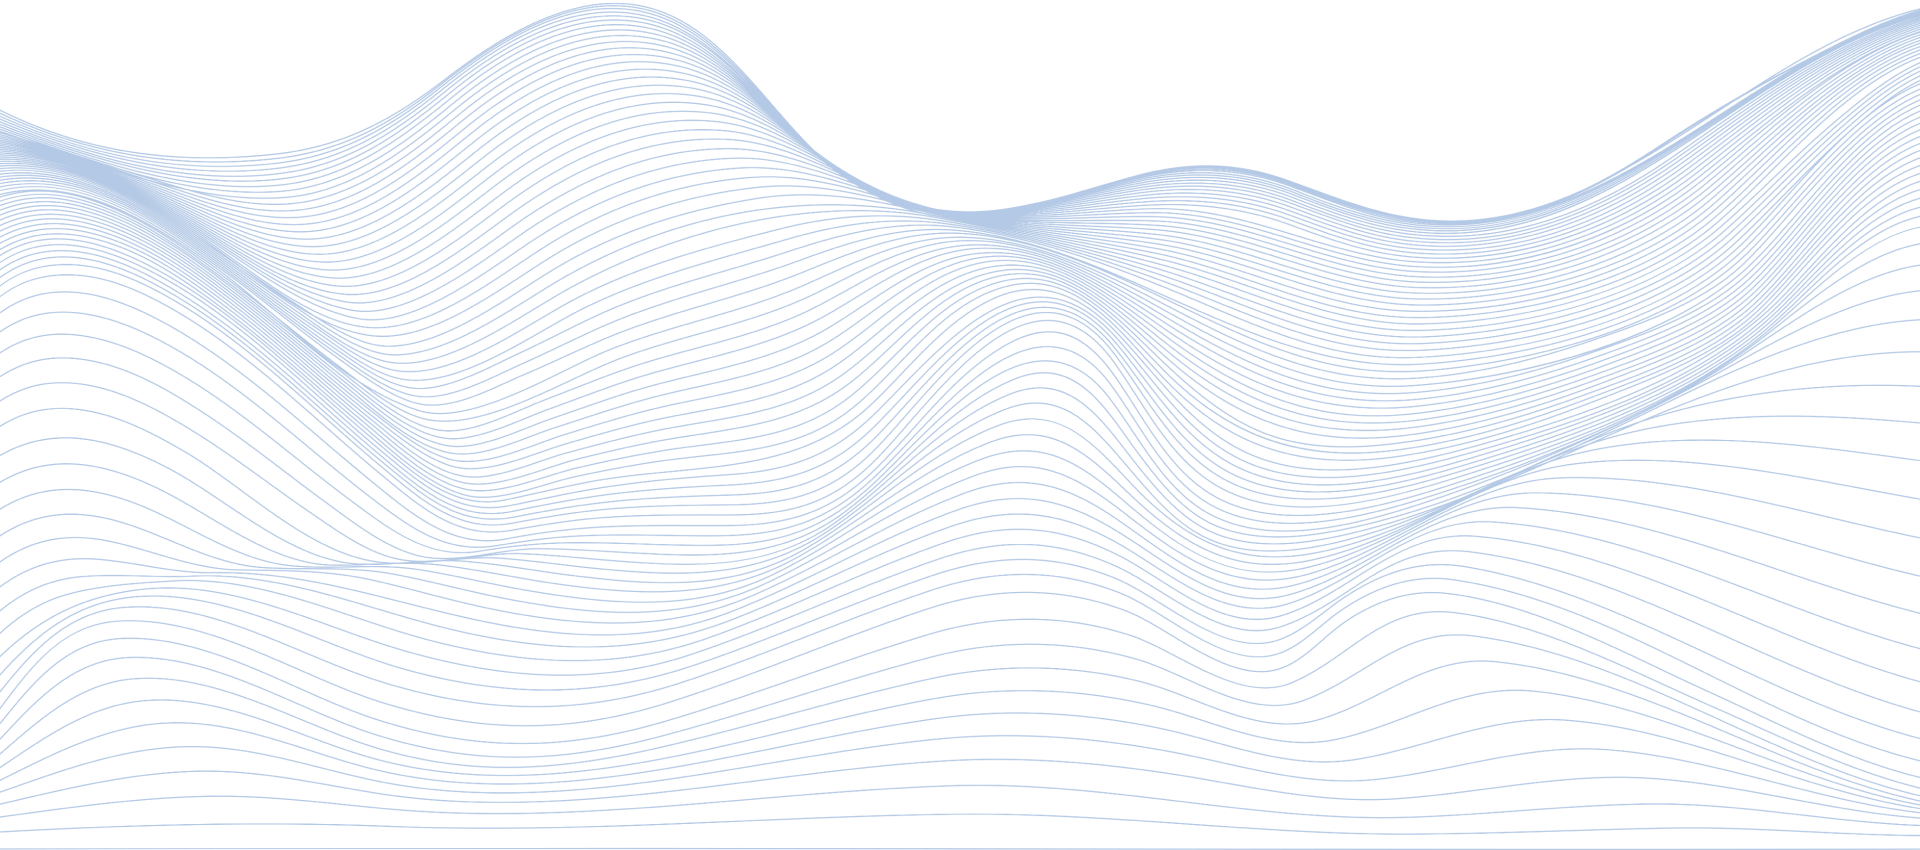
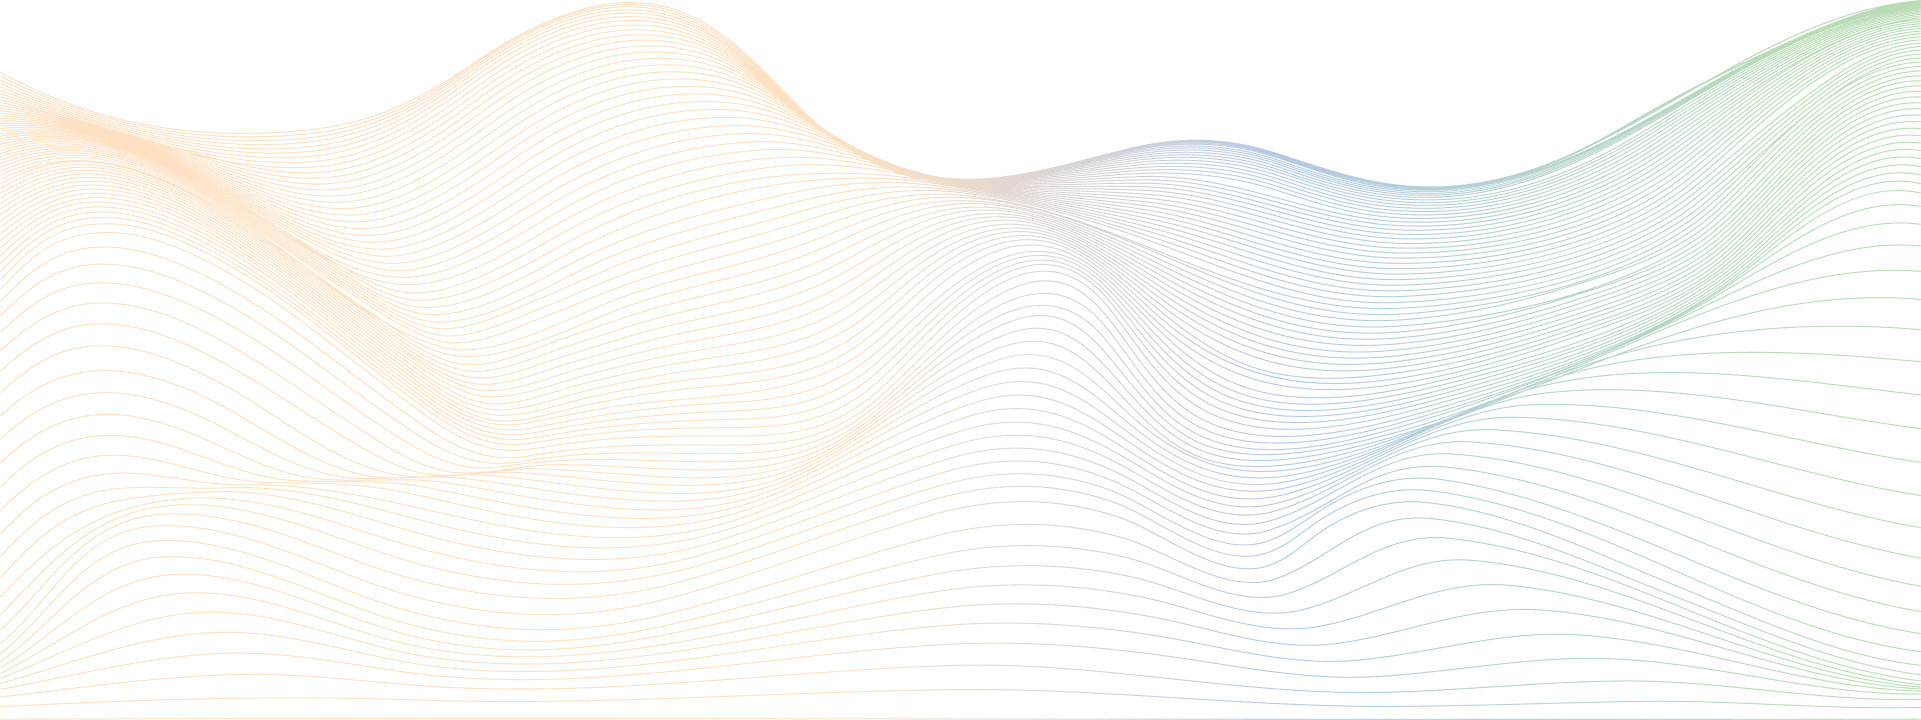
Hero left part is done

Changed region(s): [[0.0, 0.0, 1.0, 1.0], [0.9688, 0.7028, 1.0, 0.7333], [0.9688, 0.6111, 1.0, 0.6417]]

diff --git a/src/components/homepage/Components/Hero.jsx b/src/components/homepage/Components/Hero.jsx
@@ -1,0 +1,22 @@
+import React from "react";
+import heroImg from "../Assets/herobg.png";
+import RegularButton from "./RegularButton";
+const Hero = () => {
+  return (
+    <main className="min-h-screen min-w-screen  bg-white relative ">
+      {" "}
+   {" "}
+      <div className="w-full absolute top-0 left-0 z-50">    <div className="container     grid grid-cols-2 gap-12 h-screen ">
+              <div className="min-w-full flex min-h-full  flex-col justify-center">
+                  <h1 className="text-[110px] font-semibold text-black leading-[100px]  mb-6">Towerds the  <br /><span className="text-[#0351A3] font-bold " >Revolution</span></h1>
+                  <h2 className="  text-3xl leading-8 font-normal">On the mission to convert 1M+ Web3 enthusiasts to Web3 developers by 2025</h2>
+                  <div className="mt-6 w-full flex justify-start gap-6"><RegularButton>Post a job</RegularButton>
+                  <RegularButton>Find a job</RegularButton></div>
+              </div>
+          </div></div>
+          <img src={heroImg} className="absolute top-10 opaicity-30 z-0" alt="" />
+    </main>
+  );
+};
+
+export default Hero;

diff --git a/src/components/homepage/Styles/Header.css b/src/components/homepage/Styles/Header.css
@@ -1,4 +1,5 @@
 .header-gradient {
+  position: relative;
   background: linear-gradient(
       90deg,
       rgba(255, 153, 51, 0.3) 0.76%,
@@ -8,11 +9,25 @@
       rgba(19, 136, 8, 0.3) 100%
     ),
     #f4f4f5;
-  box-shadow: -5px 5px 10px rgba(220, 220, 221, 0.2),
-    5px -5px 10px rgba(220, 220, 221, 0.2),
-    -5px -5px 10px rgba(255, 255, 255, 0.9),
-    5px 5px 13px rgba(220, 220, 221, 0.9),
-    inset 1px 1px 2px rgba(255, 255, 255, 0.3),
-    inset -1px -1px 2px rgba(220, 220, 221, 0.5);
+ 
   backdrop-filter: blur(134.733px);
+}
+.header-gradient::before {
+  content:"";
+  position: absolute;
+  top:0;
+  left:0;
+  height: 100%;
+  width: 100%;
+  background: linear-gradient(
+      90deg,
+      rgba(255, 153, 51, 0.3) 0.76%,
+      rgba(255, 255, 255, 0.27) 35.9%,
+      rgba(0, 57, 121, 0.3) 52.96%,
+      rgba(255, 255, 255, 0.27) 71.57%,
+      rgba(19, 136, 8, 0.3) 100%
+    ),
+    #f4f4f5;
+    filter: blur(200px);
+    transform:translateY(20px)
 }

diff --git a/src/components/homepage/landingPage.jsx b/src/components/homepage/landingPage.jsx
@@ -1,13 +1,13 @@
 import React from 'react'
-import Header from './Components/Header'
-import heroImg from "./Assets/herobg.png"
+import Header from './Components/Header' 
 import Footer from './Components/Footer'
 import "./LandingPage.module.css"
+import Hero from './Components/Hero'
 const landingPage = () => {
   return (
       <div className='testing-homepage'>
       <Header /> 
-      <main className='min-h-screen min-w-screen  bg-gradient-to-r from-[#000101] to-[#04162C] relative '> <img src={heroImg} className="absolute top-10 opaicity-30" alt='' /> <h1>Testing text</h1> </main>
+      <Hero /> 
       <Footer /> 
     </div>
   )
